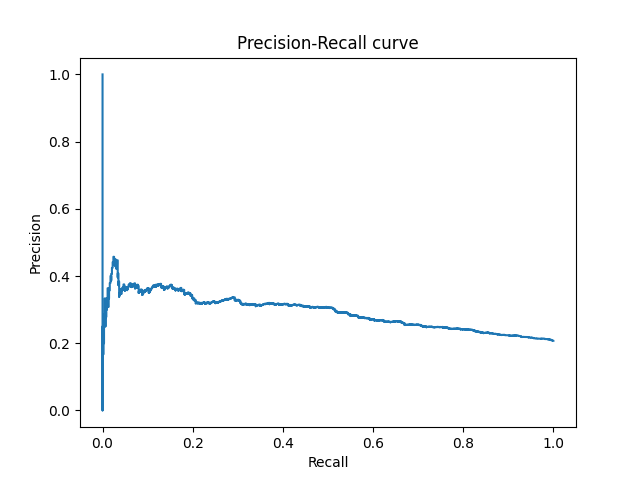
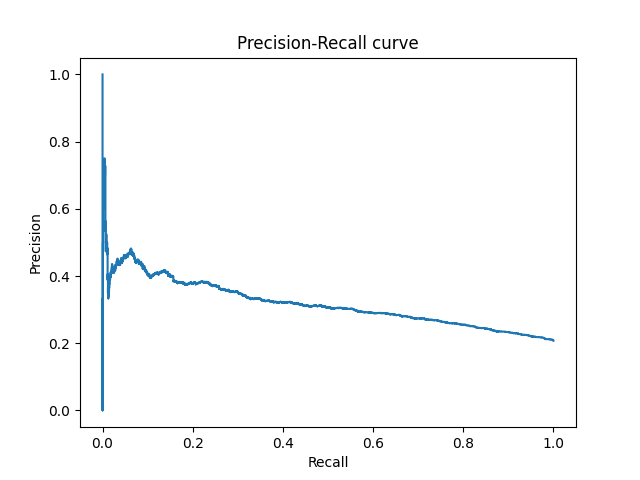
optimize for precision

Changed region(s): [[0.1562, 0.3438, 0.8438, 0.7188]]

diff --git a/src/modeling.py b/src/modeling.py
@@ -1,32 +1,226 @@
-import xgboost
-from sklearn.metrics import roc_auc_score, precision_recall_curve, f1_score
-from sklearn.model_selection import train_test_split
-from sklearn.metrics import precision_recall_curve
+import itertools
+import random
+from pathlib import Path
+from typing import Dict, Iterable, List, Optional, Tuple
+
 import matplotlib.pyplot as plt
+import pandas as pd
+from pprint import pprint
+from sklearn.metrics import (
+    classification_report,
+    precision_recall_curve,
+    roc_auc_score,
+    roc_curve,
+)
+from sklearn.model_selection import StratifiedKFold
+
+import xgboost
 
 
 def train_and_evaluate(
     X,
     y,
     *,
-    test_size: float = 0.5,
     random_state: int = 42,
+    n_splits: int = 10,
+    early_stopping_rounds: int = 50,
+    param_grid: Optional[List[Dict]] = None,
+    max_param_combinations: int = 12,
+    min_top_n: int = 200,
 ):
-    """Train an XGBoost classifier and return the model plus evaluation metrics."""
-    X_train, X_val, y_train, y_val = train_test_split(
-        X, y, test_size=test_size, random_state=random_state, stratify=y
+    """Train an XGBoost classifier with CV and optional hyperparameter sweep."""
+
+    skf = StratifiedKFold(n_splits=n_splits, shuffle=True, random_state=random_state)
+    splits = list(skf.split(X, y))
+
+    if param_grid is None:
+        param_grid = _sample_default_param_grid(
+            random_state=random_state, max_combinations=max_param_combinations
+        )
+
+    sweep_results = []
+    best_result = None
+
+    for params in param_grid:
+        cv_result = _run_cv_for_params(
+            X,
+            y,
+            splits,
+            params,
+            base_random_state=random_state,
+            early_stopping_rounds=early_stopping_rounds,
+            min_top_n=min_top_n,
+        )
+        sweep_entry = {
+            "params": params,
+            "roc_auc": cv_result["overall_roc_auc"],
+            "fold_metrics": cv_result["fold_metrics"],
+            "best_precision": cv_result["best_precision"],
+            "best_top_n": cv_result["best_top_n"],
+        }
+        sweep_results.append(sweep_entry)
+        if best_result is None or cv_result["best_precision"] > best_result[
+            "best_precision"
+        ]:
+            best_result = cv_result
+        elif (
+            cv_result["best_precision"] == best_result["best_precision"]
+            and cv_result["overall_roc_auc"] > best_result["overall_roc_auc"]
+        ):
+            best_result = cv_result
+
+    if sweep_results:
+        _report_sweep_results(sweep_results)
+
+    if best_result is None:
+        raise RuntimeError("No hyperparameter configurations were evaluated.")
+
+    _persist_diagnostics(
+        best_result["stacked_val_targets"], best_result["stacked_val_preds"]
     )
 
-    clf = xgboost.XGBClassifier(n_estimators=100)
-    clf.fit(X_train, y_train)
+    predictions_df = best_result["predictions_df"].copy()
 
-    y_pred = clf.predict_proba(X_val)[:, 1]
+    best_top_n_info = _find_best_top_n(predictions_df, min_top_n=min_top_n)
 
-    # generate roc_auc
-    roc_auc = roc_auc_score(y_val, y_pred)
+    pprint(predictions_df.head(20))
 
-    # generate precision-recall curve and save it to a file
-    precision, recall, _ = precision_recall_curve(y_val, y_pred)
+    return best_result["models"], {
+        "roc_auc": best_result["overall_roc_auc"],
+        "fold_metrics": best_result["fold_metrics"],
+        "best_params": best_result["params"],
+        "sweep_results": sweep_results,
+        "best_top_n": best_top_n_info["best_top_n"],
+        "best_top_n_precision": best_top_n_info["best_precision"],
+        "precision_curve": best_top_n_info["precision_curve"],
+        "best_threshold": best_top_n_info["threshold"],
+        "classification_report_path": _write_classification_report(
+            best_result["stacked_val_targets"],
+            best_result["stacked_val_preds"],
+            threshold=best_top_n_info["threshold"],
+            output_path=Path("data/classification_report_best_train.txt"),
+        ),
+        "y_pred": best_result["stacked_val_preds"],
+        "y_val": best_result["stacked_val_targets"],
+    }
+
+
+def _sample_default_param_grid(
+    random_state: int, max_combinations: int
+) -> List[Dict]:
+    """Sample a manageable subset of hyperparameter combinations."""
+    grid = {
+        "learning_rate": [0.03, 0.05, 0.1],
+        "max_depth": [3, 4, 5],
+        "min_child_weight": [1, 3],
+        "subsample": [0.7, 0.85],
+        "colsample_bytree": [0.7, 0.9],
+        "reg_lambda": [1.0, 3.0],
+        "reg_alpha": [0.0, 0.5],
+        "gamma": [0.0, 0.5],
+    }
+
+    all_combinations = list(
+        dict(zip(grid.keys(), values)) for values in itertools.product(*grid.values())
+    )
+
+    random.Random(random_state).shuffle(all_combinations)
+    sampled = all_combinations[:max_combinations]
+
+    for combo in sampled:
+        combo.setdefault("learning_rate", 0.05)
+    return sampled
+
+
+def _run_cv_for_params(
+    X,
+    y,
+    splits: List[Tuple[Iterable[int], Iterable[int]]],
+    params: Dict,
+    *,
+    base_random_state: int,
+    early_stopping_rounds: int,
+    min_top_n: int,
+):
+    """Run cross-validation for a specific parameter configuration."""
+
+    all_val_preds = []
+    all_val_targets = []
+    fold_metrics = []
+    models = []
+
+    for fold_idx, (train_idx, val_idx) in enumerate(splits, start=1):
+        X_train, X_val = X.iloc[train_idx], X.iloc[val_idx]
+        y_train, y_val = y.iloc[train_idx], y.iloc[val_idx]
+
+        class_counts = y_train.value_counts()
+        negatives = class_counts.get(0, 0)
+        positives = class_counts.get(1, 1)
+        scale_pos_weight = negatives / positives if positives else 1.0
+
+        clf = xgboost.XGBClassifier(
+            n_estimators=1500,
+            learning_rate=params["learning_rate"],
+            max_depth=params["max_depth"],
+            subsample=params["subsample"],
+            colsample_bytree=params["colsample_bytree"],
+            reg_lambda=params["reg_lambda"],
+            reg_alpha=params["reg_alpha"],
+            gamma=params["gamma"],
+            min_child_weight=params["min_child_weight"],
+            scale_pos_weight=scale_pos_weight,
+            objective="binary:logistic",
+            eval_metric="auc",
+            tree_method="hist",
+            random_state=base_random_state + fold_idx,
+            early_stopping_rounds=early_stopping_rounds,
+        )
+
+        clf.fit(
+            X_train,
+            y_train,
+            eval_set=[(X_val, y_val)],
+            verbose=False,
+        )
+
+        y_pred = clf.predict_proba(X_val)[:, 1]
+        fold_auc = roc_auc_score(y_val, y_pred)
+        fold_metrics.append({"fold": fold_idx, "roc_auc": fold_auc})
+        models.append(clf)
+
+        all_val_preds.extend(y_pred)
+        all_val_targets.extend(y_val)
+
+    stacked_val_preds = pd.Series(all_val_preds, name="y_pred")
+    stacked_val_targets = pd.Series(all_val_targets, name="y_val")
+    overall_roc_auc = roc_auc_score(stacked_val_targets, stacked_val_preds)
+
+    predictions_df = (
+        pd.concat([stacked_val_targets, stacked_val_preds], axis=1)
+        .sort_values(by="y_pred", ascending=False)
+        .reset_index(drop=True)
+    )
+    precision_info = _compute_precision_metrics(predictions_df, min_top_n=min_top_n)
+
+    return {
+        "params": params,
+        "overall_roc_auc": overall_roc_auc,
+        "fold_metrics": fold_metrics,
+        "models": models,
+        "stacked_val_preds": stacked_val_preds,
+        "stacked_val_targets": stacked_val_targets,
+        "predictions_df": predictions_df,
+        "best_precision": precision_info["best_precision"],
+        "best_top_n": precision_info["best_top_n"],
+        "precision_curve": precision_info["precision_curve"],
+        "threshold": precision_info["threshold"],
+    }
+
+
+def _persist_diagnostics(y_true: pd.Series, y_pred: pd.Series) -> None:
+    """Persist diagnostic plots to disk for the best configuration."""
+
+    precision, recall, _ = precision_recall_curve(y_true, y_pred)
     plt.figure()
     plt.step(recall, precision, where="post")
     plt.xlabel("Recall")
@@ -35,26 +229,96 @@ def train_and_evaluate(
     plt.savefig("precision_recall_curve.png")
     plt.close()
 
-    # Compute F1 scores for all thresholds and pick the optimal one
-    thresholds = _
-    f1_scores = []
-    for thresh in thresholds:
-        y_pred_bin = (y_pred >= thresh).astype(int)
-        f1_scores.append(f1_score(y_val, y_pred_bin))
-    # Exclude first threshold since it's always inf and gives 0
-    if len(thresholds) > 1:
-        best_index = f1_scores[1:].index(max(f1_scores[1:])) + 1
-    else:
-        best_index = 0
-    optimal_threshold = thresholds[best_index]
-    best_f1 = f1_scores[best_index]
-
-    # Define classifier with optimal threshold
-    def optimal_threshold_classifier(pred_proba):
-        return (pred_proba >= optimal_threshold).astype(int)
-
-    
-    
-    return clf, {"roc_auc": roc_auc, "y_pred": y_pred, "y_val": y_val}
+    fpr, tpr, _ = roc_curve(y_true, y_pred)
+    plt.figure()
+    plt.plot(fpr, tpr, label="ROC curve")
+    plt.xlabel("False Positive Rate")
+    plt.ylabel("True Positive Rate")
+    plt.title("ROC Curve")
+    plt.savefig("roc_curve.png")
+    plt.close()
 
 
+def _report_sweep_results(sweep_results: List[Dict]) -> None:
+    """Print a concise summary of the hyperparameter sweep."""
+    sweep_results = sorted(
+        sweep_results,
+        key=lambda x: (x["best_precision"], x["roc_auc"]),
+        reverse=True,
+    )
+    print("\nHyperparameter sweep summary (top 5, ranked by precision@N):")
+    for rank, entry in enumerate(sweep_results[:5], start=1):
+        params = entry["params"]
+        roc_auc = entry["roc_auc"]
+        best_precision = entry["best_precision"]
+        best_top_n = entry["best_top_n"]
+        print(
+            f"{rank}. precision@N={best_precision:.4f} (N={best_top_n}) | "
+            f"AUC={roc_auc:.4f} | lr={params['learning_rate']} | depth={params['max_depth']} | "
+            f"min_child={params['min_child_weight']} | subsample={params['subsample']} | "
+            f"colsample={params['colsample_bytree']} | reg_lambda={params['reg_lambda']} | "
+            f"reg_alpha={params['reg_alpha']} | gamma={params['gamma']}"
+        )
+
+
+def _compute_precision_metrics(
+    predictions_df: pd.DataFrame, *, min_top_n: int
+) -> Dict[str, object]:
+    """Return best precision and curve without printing."""
+    df = predictions_df.copy()
+    df["cumulative_positives"] = df["y_val"].cumsum()
+    df["top_n"] = df.index + 1
+    df["precision_at_n"] = df["cumulative_positives"] / df["top_n"]
+
+    search_space = df[df["top_n"] >= min_top_n]
+    if search_space.empty:
+        search_space = df
+
+    best_row = search_space.loc[search_space["precision_at_n"].idxmax()]
+    best_top_n = int(best_row["top_n"])
+    best_precision = float(best_row["precision_at_n"])
+
+    threshold = float(df.loc[best_top_n - 1, "y_pred"])
+    precision_curve = df[["top_n", "precision_at_n"]].copy()
+
+    return {
+        "best_top_n": best_top_n,
+        "best_precision": best_precision,
+        "precision_curve": precision_curve,
+        "threshold": threshold,
+    }
+
+
+def _find_best_top_n(
+    predictions_df: pd.DataFrame, *, min_top_n: int
+) -> Dict[str, object]:
+    """Compute precision at every cutoff and pick the top-n that maximizes precision."""
+    metrics = _compute_precision_metrics(predictions_df, min_top_n=min_top_n)
+    best_top_n = metrics["best_top_n"]
+    best_precision = metrics["best_precision"]
+
+    print(
+        f"Best precision@N: N={best_top_n} yields precision={best_precision:.4f} "
+        f"(min_top_n constraint={min_top_n})"
+    )
+
+    return metrics
+
+
+def _write_classification_report(
+    y_true: pd.Series,
+    y_pred_proba: pd.Series,
+    *,
+    threshold: Optional[float] = None,
+    output_path: Path,
+) -> Path:
+    """Generate a classification report and write it to disk."""
+    if threshold is None:
+        threshold = 0.5
+    y_pred = (y_pred_proba >= threshold).astype(int)
+    report = classification_report(y_true, y_pred, target_names=["no_churn", "churn"])
+
+    output_path.parent.mkdir(parents=True, exist_ok=True)
+    output_path.write_text(report)
+    print(f"Saved classification report to {output_path}")
+    return output_path

diff --git a/main.py b/main.py
@@ -34,9 +34,6 @@ def main() -> None:
         observation_window_end,
     )
 
-    print("train_data_df:")
-    pprint(train_df.head(10))
-
     X = train_df.drop(columns=["churn"])
     y = train_df["churn"]
 
